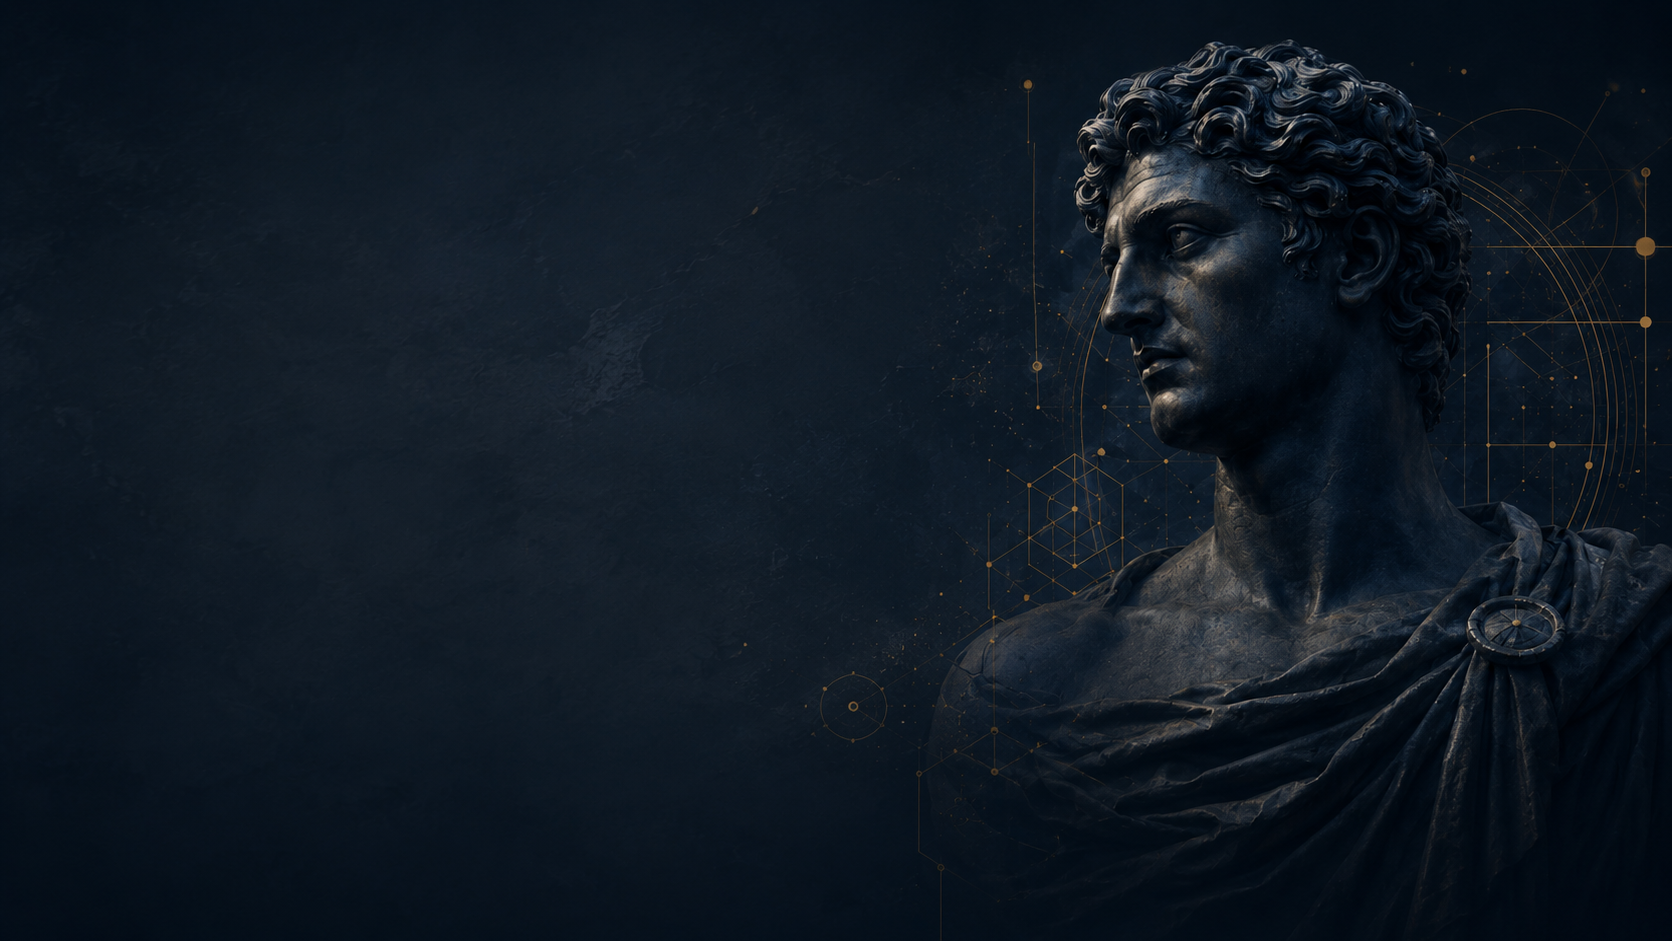
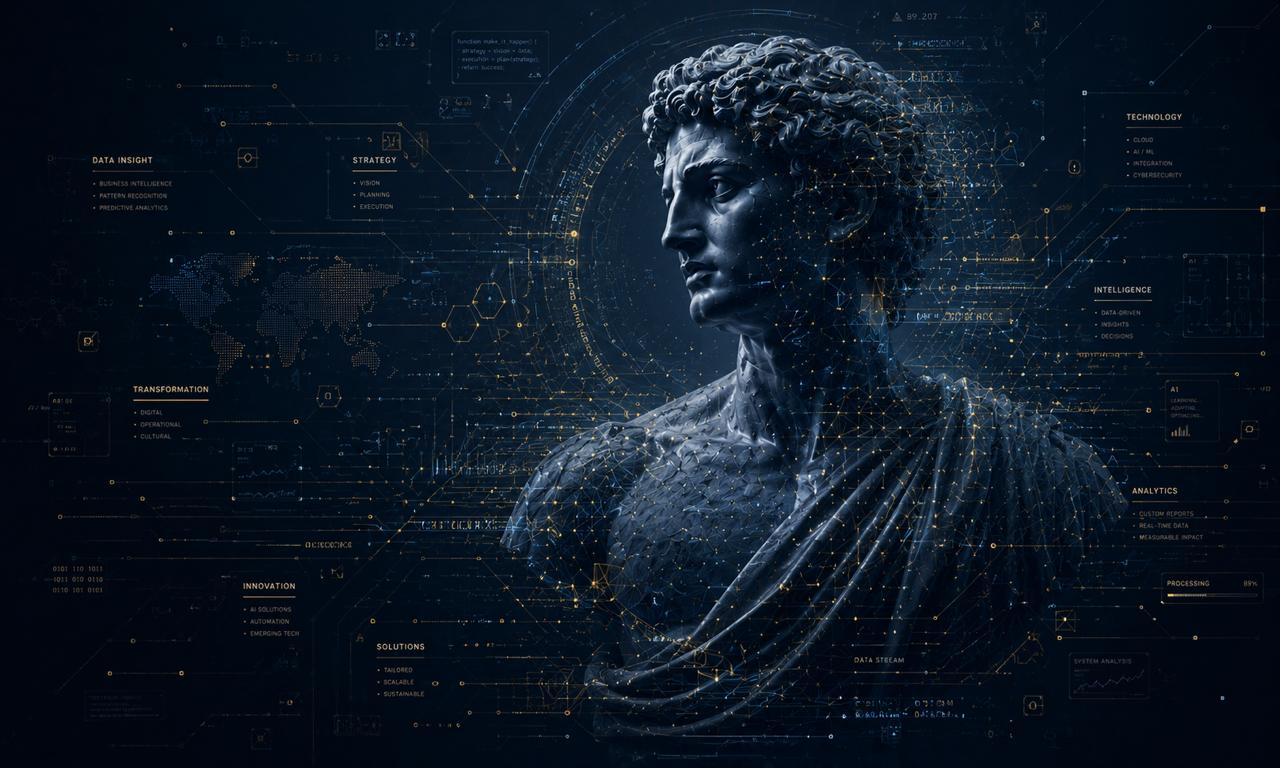
mudança bg image

diff --git a/wwwroot/css/styles.css b/wwwroot/css/styles.css
@@ -178,15 +178,15 @@ img { display:block; max-width:100%; }
 }
 .hero-bg-image {
     background-image:url('../images/hero-bg.png');
-    position:absolute; inset:-80px;
+    position:absolute; inset:-30px;
     background-size:cover; background-position:center 20%;
-    will-change:transform; z-index:0; filter:grayscale(25%) contrast(0.95) brightness(0.85);
+    will-change:transform; z-index:0; filter:grayscale(25%) contrast(0.95) brightness(0.95);
 }
 .hero-overlay {
     position:absolute; inset:0; z-index:1;
     background:
-        linear-gradient(180deg, rgba(13,27,42,0.55) 0%, rgba(13,27,42,0.78) 40%, rgba(13,27,42,0.92) 100%),
-        linear-gradient(90deg, rgba(13,27,42,0.3) 0%, transparent 60%);
+        linear-gradient(180deg, rgba(13,27,42,0.4) 0%, rgba(13,27,42,0.62) 40%, rgba(13,27,42,0.82) 100%),
+        linear-gradient(90deg, rgba(13,27,42,0.2) 0%, transparent 60%);
 }
 .hero-content { position:relative; z-index:2; max-width:700px; }
 .hero-eyebrow {

diff --git a/Program.cs b/Program.cs
@@ -1,6 +1,10 @@
 using Microsoft.AspNetCore.Builder;
 using Microsoft.AspNetCore.Http;
 using Microsoft.Extensions.DependencyInjection;
+using System.Net;
+using MailKit.Net.Smtp;
+using MailKit.Security;
+using MimeKit;
 
 var builder = WebApplication.CreateBuilder(args);
 builder.Services.AddControllers();
@@ -16,12 +20,60 @@ app.UseHttpsRedirection();
 app.UseStaticFiles();
 app.MapFallbackToFile("index.html");
 
-app.MapPost("/contact/submit", (IConfiguration config, ContactRequest req) => {
+app.MapPost("/contact/submit", async (IConfiguration config, ContactRequest req) =>
+{
     if (string.IsNullOrWhiteSpace(req.Name) || string.IsNullOrWhiteSpace(req.Email) || string.IsNullOrWhiteSpace(req.Message))
         return Results.BadRequest(new { success = false, message = "Please fill all fields correctly." });
 
-    Console.WriteLine($"Contact form: {req.Name} ({req.Email}) - {req.Message}");
-    return Results.Ok(new { success = true, message = "Thank you for reaching out. We'll be in touch shortly." });
+    var smtpHost = config["Smtp:Host"];
+    var smtpPort = int.TryParse(config["Smtp:Port"], out var port) ? port : 587;
+    var smtpUser = config["Smtp:Username"];
+    var smtpPass = config["Smtp:Password"];
+    var toAddr = config["Smtp:To"] ?? config["ContactEmail"];
+    var useSsl = bool.TryParse(config["Smtp:EnableSsl"], out var ssl) && ssl;
+
+    try
+    {
+        if (!string.IsNullOrWhiteSpace(smtpHost) && !string.IsNullOrWhiteSpace(smtpUser))
+        {
+            var mimeMessage = new MimeMessage();
+            mimeMessage.From.Add(new MailboxAddress(req.Name, req.Email));
+            mimeMessage.To.Add(new MailboxAddress("SaSilva Tech Advisors", toAddr));
+            mimeMessage.Subject = $"New Contact Inquiry from {req.Name}";
+
+            var emailBuilder = new BodyBuilder();
+            var messageHtml = $"<h2>New Contact Form Submission</h2>" +
+                $"<p><strong>Name:</strong> {WebUtility.HtmlEncode(req.Name)}</p>" +
+                $"<p><strong>Email:</strong> {WebUtility.HtmlEncode(req.Email)}</p>" +
+                $"<p><strong>Message:</strong></p>" +
+                $"<p>{WebUtility.HtmlEncode(req.Message)}</p>";
+            emailBuilder.HtmlBody = messageHtml;
+            mimeMessage.Body = emailBuilder.ToMessageBody();
+
+            using var smtp = new SmtpClient();
+            if (useSsl)
+                await smtp.ConnectAsync(smtpHost, smtpPort, SecureSocketOptions.StartTls);
+            else
+                await smtp.ConnectAsync(smtpHost, smtpPort, SecureSocketOptions.None);
+
+            await smtp.AuthenticateAsync(smtpUser, smtpPass);
+            await smtp.SendAsync(mimeMessage);
+            await smtp.DisconnectAsync(true);
+
+            Console.WriteLine($"Contact email sent from {req.Email} via {smtpHost}:{smtpPort}");
+        }
+        else
+        {
+            Console.WriteLine($"[SMTP not configured] Contact form: {req.Name} ({req.Email}) - {req.Message}");
+        }
+
+        return Results.Ok(new { success = true, message = "Thank you for reaching out. We'll be in touch shortly." });
+    }
+    catch (Exception ex)
+    {
+        Console.WriteLine($"Failed to send contact email: {ex.Message}");
+        return Results.Ok(new { success = true, message = "Thank you for reaching out. We'll be in touch shortly." });
+    }
 });
 
 app.Run();
